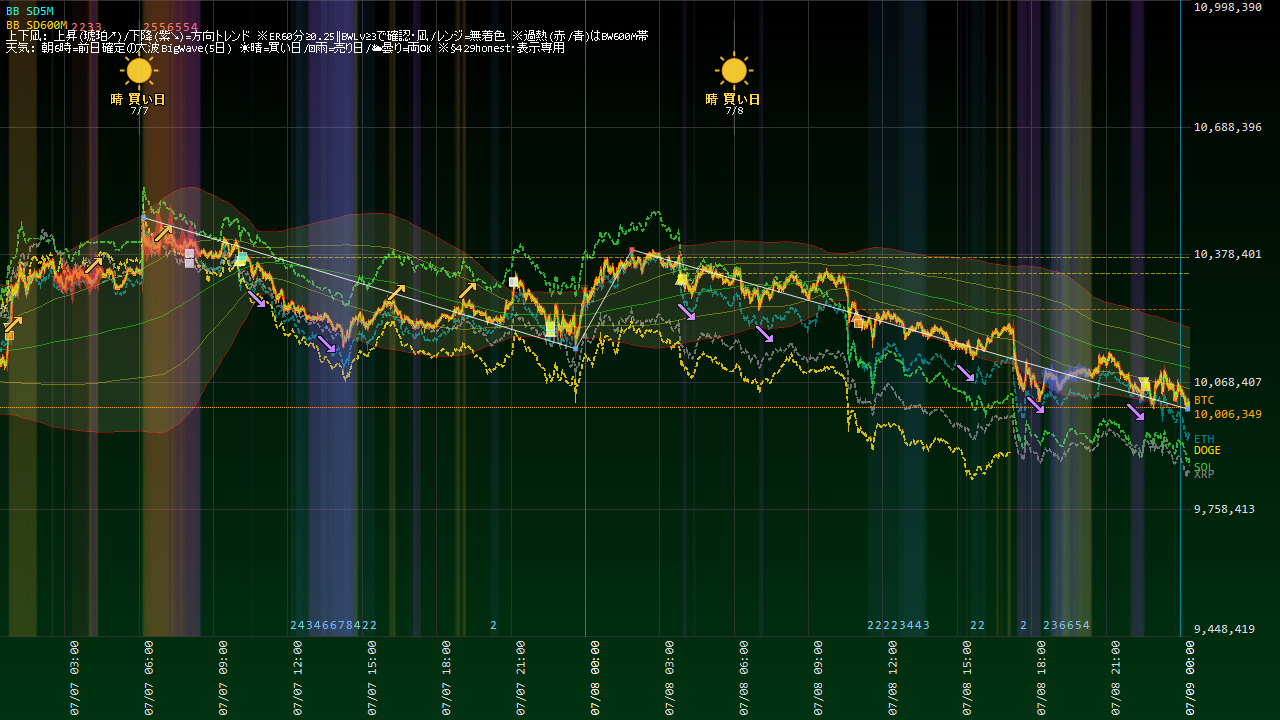
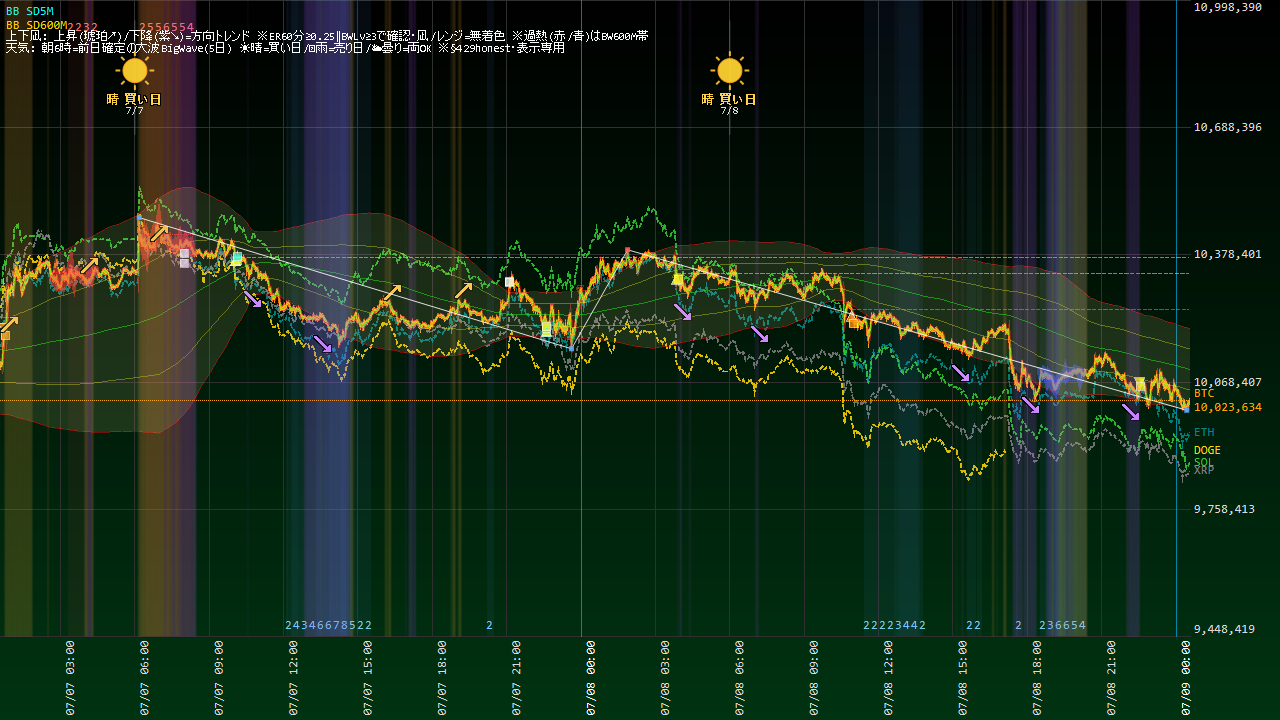
Coin100S 運用状況更新 07-09 00:35

diff --git a/coin100s-795hc4jfv8/index.html b/coin100s-795hc4jfv8/index.html
@@ -14,7 +14,7 @@ a{color:#60a5fa;text-decoration:none} a:hover{text-decoration:underline}
 .meta{color:#94a3b8;font-size:13px}</style>
 <script>setTimeout(function(){location.replace(location.pathname+"?t="+Date.now());},300000);</script></head><body>
 <h1>Coin100S ダッシュボード</h1>
-<p class="meta">スナップショット: 2026-07-09 00:28:55(自動リロード・最新化)</p>
+<p class="meta">スナップショット: 2026-07-09 00:34:55(自動リロード・最新化)</p>
 <div class="cards">
 <div class="card">建玉数<div class="v">0</div></div>
 <div class="card">本日損益<div class="v pos">+293円</div></div>
@@ -25,5 +25,5 @@ a{color:#60a5fa;text-decoration:none} a:hover{text-decoration:underline}
 <p><a href="status.html"><b>▶ 運用状況の詳細(チャート・本日の取引・レジーム)</b></a></p>
 <h2>日報一覧</h2>
 <table><tr><th>取引日</th><th>実現損益</th><th>総括</th></tr><tr><td><a href='reports/20260707_Coin100S日報.html'>2026-07-07</a></td><td class="pos">+0円</td><td class='meta'>実取引: 新規8件/決済6件、実現損益 +0円。シグナル却下4件（最多: SD120M_5M／トレンド方向ゲート(N分傾き上と不一致=逆張り方向のfade禁止)）。⚠警告/エラー 258件（要確認）。</td></tr><tr><td><a href='reports/20260706_Coin100S日報.html'>2026-07-06</a></td><td class="pos">+0円</td><td class='meta'>実取引: 新規9件/決済6件、実現損益 +0円。シグナル却下9件（最多: SD120M_5M／トレンド方向ゲート(N分傾き上と不一致=逆張り方向のfade禁止)）。⚠警告/エラー 150件（要確認）。</td></tr><tr><td><a href='reports/20260705_Coin100S日報.html'>2026-07-05</a></td><td class="pos">+0円</td><td class='meta'>実取引: 新規8件/決済3件、実現損益 +0円。⚠警告/エラー 2件（要確認）。</td></tr><tr><td><a href='reports/20260704_Coin100S日報.html'>2026-07-04</a></td><td class="pos">+0円</td><td class='meta'>実取引: 新規1件/決済2件、実現損益 +0円。⚠警告/エラー 2件（要確認）。</td></tr><tr><td><a href='reports/20260703_Coin100S日報.html'>2026-07-03</a></td><td class="pos">+0円</td><td class='meta'>実取引: 新規5件/決済4件、実現損益 +0円。⚠警告/エラー 15件（要確認）。</td></tr><tr><td><a href='reports/20260702_Coin100S日報.html'>2026-07-02</a></td><td class="pos">+0円</td><td class='meta'>実取引: 新規7件/決済5件、実現損益 +0円。シグナル却下17件（最多: SD120M_5M／トレンド方向ゲート(N分傾き上と不一致=逆張り方向のfade禁止)）。⚠警告/エラー 26件（要確認）。</td></tr><tr><td><a href='reports/20260701_Coin100S日報.html'>2026-07-01</a></td><td class="pos">+0円</td><td class='meta'>実取引: 新規14件/決済8件、実現損益 +0円。シグナル却下14件（最多: SD120M_5M／ボラ軸ゲート(SDN%&amp;gt;N%=高ボラ/荒れレンジ)）。⚠警告/エラー 2件（要確認）。</td></tr><tr><td><a href='reports/20260630_Coin100S日報.html'>2026-06-30</a></td><td class="pos">+0円</td><td class='meta'>実取引: 新規0件/決済1件、実現損益 +0円。シグナル却下29件（最多: 微5M／当日枠N）。警告/孤児/エラーなし＝健全。</td></tr></table>
-<hr><p class="meta">更新: 2026-07-09 00:29:06 / 自動生成: tools/web_publish.py(§580)</p>
+<hr><p class="meta">更新: 2026-07-09 00:35:07 / 自動生成: tools/web_publish.py(§580)</p>
 </body></html>

diff --git a/coin100s-795hc4jfv8/status.html b/coin100s-795hc4jfv8/status.html
@@ -14,14 +14,14 @@ a{color:#60a5fa;text-decoration:none} a:hover{text-decoration:underline}
 .meta{color:#94a3b8;font-size:13px}</style>
 <script>setTimeout(function(){location.replace(location.pathname+"?t="+Date.now());},300000);</script></head><body>
 <h1>Coin100S 運用状況</h1>
-<p class="meta">スナップショット: 2026-07-09 00:28:55 / ページ生成: 2026-07-09 00:29:06(自動リロード・最新化) / <a href="index.html">目次へ</a></p>
+<p class="meta">スナップショット: 2026-07-09 00:34:55 / ページ生成: 2026-07-09 00:35:07(自動リロード・最新化) / <a href="index.html">目次へ</a></p>
 <div class="cards">
 <div class="card">建玉数<div class="v">0</div></div>
 <div class="card">本日損益<div class="v pos">+293円</div></div>
 <div class="card">評価損益<div class="v ">?</div></div>
 </div>
 <h2>取引チャート(直近24h)</h2>
-<img src="status_chart.png?t=0029" alt="chart">
+<img src="status_chart.png?t=0035" alt="chart">
 <h2>建玉一覧</h2>
 <table><tr><th>銘柄</th><th>側</th><th>数量</th><th>建値</th><th>含損益</th><th>レッグ</th></tr><tr><td colspan=6>建玉なし(flat)</td></tr></table>
 <h2>実現決済履歴(直近15件・OrderId単位)</h2>
@@ -29,6 +29,6 @@ a{color:#60a5fa;text-decoration:none} a:hover{text-decoration:underline}
 <h2>本取引日の実取引(6:00起点)</h2>
 <table><tr><th>時刻</th><th>種別</th><th>側</th><th>銘柄</th><th>数量</th><th>指値</th></tr><tr><td>06:08:04</td><td>決済</td><td>BUY</td><td>LTC_JPY</td><td>1</td><td>7,165</td></tr><tr><td>06:38:03</td><td>決済</td><td>BUY</td><td>BCH_JPY</td><td>0.1</td><td>39,201</td></tr><tr><td>06:38:04</td><td>決済</td><td>BUY</td><td>BCH_JPY</td><td>0.1</td><td>39,201</td></tr><tr><td>06:38:05</td><td>決済</td><td>BUY</td><td>BCH_JPY</td><td>0.1</td><td>39,201</td></tr><tr><td>06:38:06</td><td>決済</td><td>BUY</td><td>BCH_JPY</td><td>0.1</td><td>39,201</td></tr><tr><td>10:56:33</td><td>新規</td><td>BUY</td><td>BTC_JPY</td><td>0.001</td><td>10,234,771</td></tr><tr><td>11:01:33</td><td>決済</td><td>SELL</td><td>BTC_JPY</td><td>0.001</td><td>10,180,942</td></tr><tr><td>11:01:34</td><td>決済</td><td>SELL</td><td>BTC_JPY</td><td>0.001</td><td>10,180,942</td></tr><tr><td>22:32:47</td><td>新規</td><td>SELL</td><td>BTC_JPY</td><td>0.002</td><td>10,061,419</td></tr></table>
 <h2>現在レジーム(3軸・§570c)</h2>
-<ul><li>アルト対BTC 5日: <b>-135bps</b>(アルト劣後=RELVAL順風)</li><li>BTC ER240m: <b>0.056</b>(閾値0.25→レンジ(fade順風/BWTRD逆風))</li><li>BTC実現ボラ240m: <b>7.32</b> bps/分</li></ul>
+<ul><li>アルト対BTC 5日: <b>-135bps</b>(アルト劣後=RELVAL順風)</li><li>BTC ER240m: <b>0.054</b>(閾値0.25→レンジ(fade順風/BWTRD逆風))</li><li>BTC実現ボラ240m: <b>7.29</b> bps/分</li></ul>
 <hr><p class="meta">自動生成: tools/web_publish.py(§580・読み取り専用)。売買判断はアプリ本体。</p>
 </body></html>
